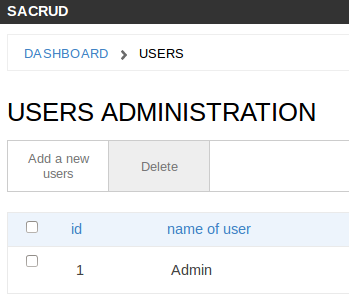
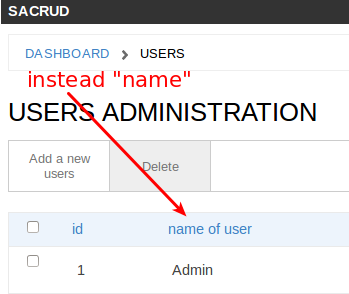
++docs

diff --git a/docs/conf.py b/docs/conf.py
@@ -72,6 +72,12 @@ extensions = [
     'sphinx.ext.viewcode',
 ]
 
+intersphinx_mapping = {
+        'python': ('http://python.readthedocs.org/en/v2.7.2/', None),
+        'sacrud': ('http://sacrud.readthedocs.org/en/latest/', None),
+        'sphinx': ('http://sphinx.readthedocs.org/en/latest/', None),
+        }
+
 # Add any paths that contain templates here, relative to this directory.
 templates_path = ['_templates']
 

diff --git a/docs/pages/configuration.rst b/docs/pages/configuration.rst
@@ -4,20 +4,15 @@ Application Configuration for Pyramid
 Initialize
 ----------
 
-:mod:`pyramid_sacrud` work with Jinja2 template renderer
-
-.. note::
-    work only with pyramid_jinja2<=1.10 version yet
+:mod:`pyramid_sacrud` use Jinja2 template renderer
 
 .. code-block:: python
     :linenos:
 
-    settings = config.registry.settings
-    config.include('pyramid_jinja2')
-
     from .models import (Model1, Model2, Model3,)
     # add pyramid_sacrud and project models
     config.include('pyramid_sacrud')
+    settings = config.registry.settings
     settings['pyramid_sacrud.models'] = {'Group1': {
                                              'tables': [Model1, Model2],
                                              'position': 1,},
@@ -62,7 +57,7 @@ Model verbose name
 
 Instead "user", it will display "My user model"
 
-.. image:: _static/img/verbose_name.png
+.. image:: ../_static/img/verbose_name.png
     :alt: Model verbose name
 
 Column verbose name
@@ -85,7 +80,7 @@ Column verbose name
 
 Instead "name", it will display "name of user"
 
-.. image:: _static/img/column_verbose_name.png
+.. image:: ../_static/img/column_verbose_name.png
     :alt: Column verbose name
 
 Description for column
@@ -109,7 +104,7 @@ Description for column
 
 Adds a description below
 
-.. image:: _static/img/column_description.png
+.. image:: ../_static/img/column_description.png
     :alt: Column description
 
 Add css class for column
@@ -138,7 +133,7 @@ Add css class for column
 
 Adds css class for column
 
-.. image:: _static/img/column_css.png
+.. image:: ../_static/img/column_css.png
     :alt: Column with custom css classes
 
 Configure displayed fields in grid
@@ -167,9 +162,10 @@ Configure displayed fields in grid
 
         sacrud_list_col = [name, name_ru, name_cze]
 
-Shows only name, name_ru and name_cze columns in grid
+Use sacrud_list_col attribute of Model.
+It shows only name, name_ru and name_cze columns in grid.
 
-.. image:: _static/img/sacrud_list_col.png
+.. image:: ../_static/img/sacrud_list_col.png
     :alt: Hide columns in grid
 
 Configure displayed columns for detailed object
@@ -197,35 +193,44 @@ Configure displayed columns for detailed object
                             'name': [name], 'Date': [date]}
 
         sacrud_list_col = [name, name_ru, name_cze]
+
         sacrud_detail_col = [('name space', [name,
-                                             widget_horizontal(name_ru, name_bg,
-                                                               name_fr, name_cze,
-                                                               sacrud_name=u"i18n names")]),
-                             ('description', [description, date,
-                                              widget_horizontal(in_menu, visible,
-                                                                in_banner,
-                                                                sacrud_name=u"Расположение"),
-                                              description2])
-                             ]
+                                            ('i18 names', (name_ru, name_bg,
+                                                            name_fr, name_cze)
+                                            )]
+                            ),
+                            ('description', [description, date,
+                                            (u"Расположение",
+                                            (in_menu, visible, in_banner)
+                                            ),
+                                            description2])
+                            ]
 
-Agregate and composite columns in detail view
 
-.. image:: _static/img/sacrud_detail_col.png
+Use sacrud_detail_col attribute of Model.
+It agregate and composite columns in detail view.
+
+.. image:: ../_static/img/sacrud_detail_col.png
     :alt: Agregate columns
+
+Models attributes as property
+-----------------------------
+
+Use :py:class:`sacrud.common.TableProperty` decorator.
+
+.. literalinclude:: ../_pyramid_sacrud_example/sacrud_example/models/funny_models.py
+   :linenos:
+   :language: py
+   :pyobject: MPTTPages
+   :emphasize-lines: 6-21
+
 
 Composite fields and column as custom function
 ----------------------------------------------
 
 .. code-block:: python
 
-    from sacrud.common.custom import widget_horizontal, widget_link, widget_m2m
-
-Horizontal fields widget
-~~~~~~~~~~~~~~~~~~~~~~~~
-
-.. note::
-
-    see image above ("i18n names" row)
+    from sacrud.common.custom import widget_link, widget_m2m
 
 Column as link widget
 ~~~~~~~~~~~~~~~~~~~~~
@@ -249,11 +254,19 @@ Column as link widget
 
 Adds link for rows in column "name"
 
-.. image:: _static/img/sacrud_list_col.png
+.. image:: ../_static/img/widget_as_link.png
     :alt: Column as link
 
 M2M relation widget
 ~~~~~~~~~~~~~~~~~~~
+
+.. |ManyToManyField| image:: ../_static/img/ManyToManyField.png
+
+.. note::
+
+    Will be made in the next version.
+    I think it should look like Django ManyToManyField.
+    |ManyToManyField|
 
 Template redefinition
 ---------------------
@@ -271,38 +284,22 @@ Dashboard config
 
 Example from `<https://github.com/ITCase/pyramid_sacrud_example>`_
 
-Configure your project
+Configure your project:
 
-.. literalinclude:: _pyramid_sacrud_example/sacrud_example/__init__.py
+.. literalinclude:: ../_pyramid_sacrud_example/sacrud_example/__init__.py
    :linenos:
    :emphasize-lines: 85-88
    :language: py
 
-External config for :ref:`Pyramid extension<pyramid_ext>`
+Dict of models example for :mod:`pyramid_sacrud`:
 
-.. literalinclude:: _pyramid_sacrud_example/sacrud_example/sacrud_config.py
+.. literalinclude:: ../_pyramid_sacrud_example/sacrud_example/sacrud_config.py
    :linenos:
    :emphasize-lines: 31-
    :language: py
 
-Dashboard model
+Result:
 
-.. note::
-    If you need save dashboard widgets position
-
-.. literalinclude:: _pyramid_sacrud_example/sacrud_example/models/funny_models.py
-   :linenos:
-   :language: py
-   :pyobject: WidgetPosition
-
-And set setting in you ini file
-
-.. code::
-
-    sacrud.dashboard_position_model = sacrud_example.models.funny_models:WidgetPosition
-
-Result
-
-.. image:: _static/img/dashboard.png
+.. image:: ../_static/img/dashboard.png
     :alt: Widgets dashboard
     :width: 900px

diff --git a/docs/pages/api.rst b/docs/pages/api.rst
@@ -1,59 +1,49 @@
 API
 ===
 
-.. toctree::
+Main module
+-----------
 
-    pyramid_sacrud.views
-    pyramid_sacrud.tests
-
-
-pyramid_sacrud.version module
------------------------------
-
-.. automodule:: pyramid_sacrud.version
+.. automodule:: pyramid_sacrud
     :members:
     :undoc-members:
     :show-inheritance:
 
-
-pyramid_sacrud.common module
-----------------------------
-
-.. automodule:: pyramid_sacrud.common
-    :members:
-    :undoc-members:
-    :show-inheritance:
-
-
-pyramid_sacrud.breadcrumbs module
----------------------------------
+Breadcrumbs
+-----------
 
 .. automodule:: pyramid_sacrud.breadcrumbs
     :members:
     :undoc-members:
     :show-inheritance:
 
+Common
+------
 
-pyramid_sacrud module
----------------------
-
-.. automodule:: pyramid_sacrud.__init__
+.. automodule:: pyramid_sacrud.common
     :members:
     :undoc-members:
     :show-inheritance:
 
-pyramid_sacrud.views.CRUD module
---------------------------------
+.. automodule:: pyramid_sacrud.common.custom
+    :members:
+    :undoc-members:
+    :show-inheritance:
+
+.. automodule:: pyramid_sacrud.common.paginator
+    :members:
+    :undoc-members:
+    :show-inheritance:
+
+Views
+-----
+
+.. automodule:: pyramid_sacrud.views
+    :members:
+    :undoc-members:
+    :show-inheritance:
 
 .. automodule:: pyramid_sacrud.views.CRUD
-    :members:
-    :undoc-members:
-    :show-inheritance:
-
-pyramid_sacrud.views.base module
---------------------------------
-
-.. automodule:: pyramid_sacrud.views.base
     :members:
     :undoc-members:
     :show-inheritance:

diff --git a/docs/pages/contribute.rst b/docs/pages/contribute.rst
@@ -19,7 +19,7 @@ We use stylus preprocessor for write and concat CSS. If you want edit this, add 
 JavaScript coder
 ~~~~~~~~~~~~~~~~
 
-Use bower and assets hook:
+Use `<http://bower.io>`_ and assets hook:
 
 .. literalinclude:: ../pyramid_sacrud/assets.py
    :linenos:
